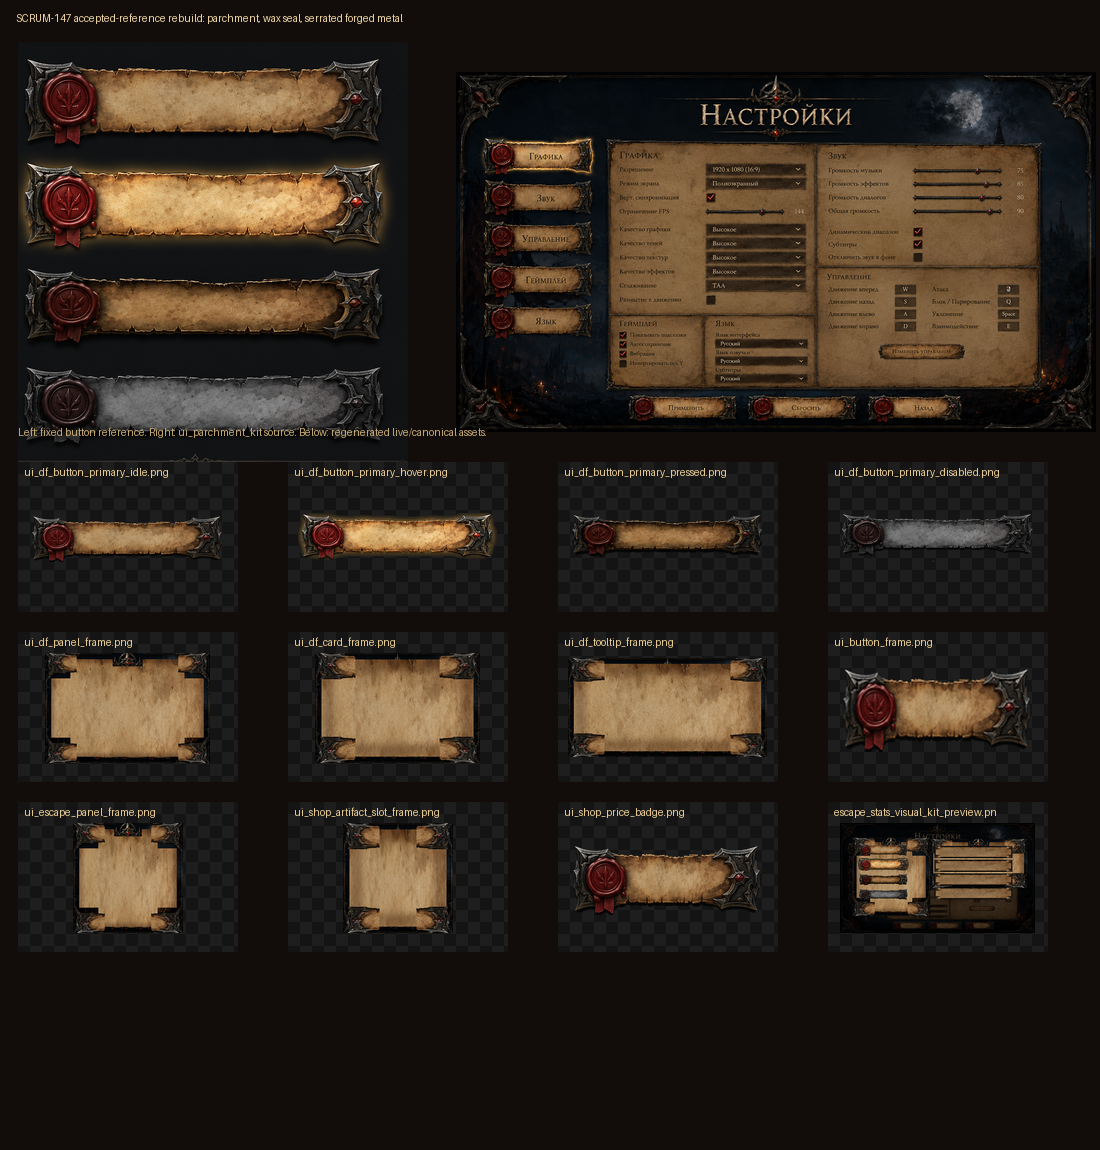
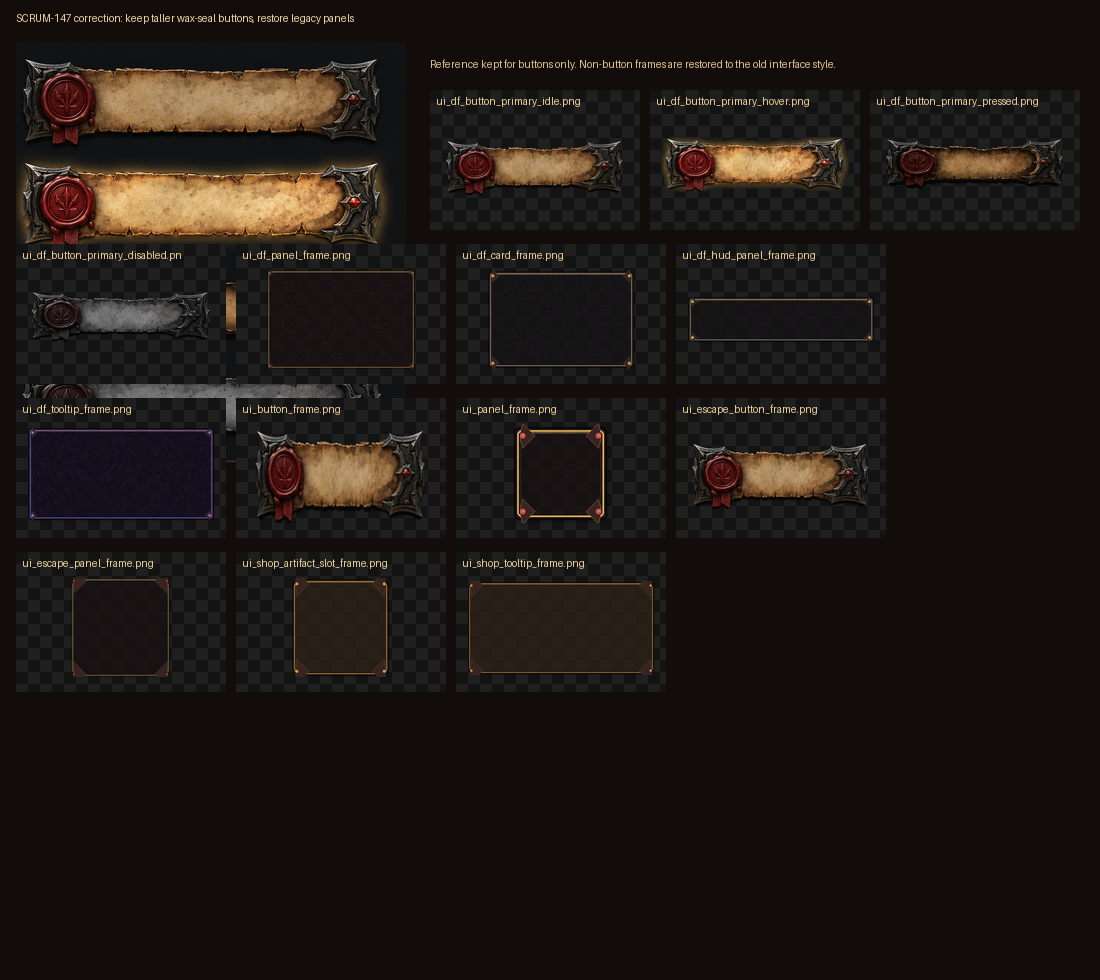
task(SCRUM-223): игровой курсор — 2-й вариант с референса пользователя (когтистый огненный наконечник), заменить game_cursor.png + выверить hotspot

diff --git a/docs/process/task_board.md b/docs/process/task_board.md
@@ -13,14 +13,14 @@
 | SCRUM-212 Персонажи и классы | 20 | 0 | 0 | 0 | 20 |
 | SCRUM-213 Бой, враги, боссы, события | 32 | 0 | 1 | 0 | 33 |
 | SCRUM-214 Баланс и экономика | 14 | 3 | 0 | 0 | 17 |
-| SCRUM-215 Интерфейс, экраны, локализация | 20 | 0 | 1 | 0 | 21 |
-| SCRUM-216 Арт и спрайты | 30 | 5 | 0 | 0 | 35 |
+| SCRUM-215 Интерфейс, экраны, локализация | 20 | 1 | 0 | 0 | 21 |
+| SCRUM-216 Арт и спрайты | 31 | 4 | 0 | 0 | 35 |
 | SCRUM-217 Анимация и риги | 30 | 0 | 1 | 0 | 31 |
 | SCRUM-218 Звук и музыка | 5 | 0 | 0 | 0 | 5 |
 | SCRUM-219 Мета-прогрессия | 6 | 0 | 0 | 0 | 6 |
 | SCRUM-220 Качество кода, тесты, аудиты | 31 | 2 | 0 | 6 | 39 |
 | SCRUM-221 Релиз и процессы | 5 | 0 | 0 | 0 | 5 |
-| **ИТОГО** | **193** | **10** | **3** | **6** | **212** |
+| **ИТОГО** | **194** | **10** | **2** | **6** | **212** |
 
 (КК = Контроль качества, ждёт QA; Кв = К выполнению, ждёт взятия)
 
@@ -28,15 +28,15 @@
 
 | Задача | Роль | Статус | Примечание |
 | --- | --- | --- | --- |
+| [codex_design_cursor_clawed_fire_task.md](../tasks/codex_design_cursor_clawed_fire_task.md) | Design (Codex) → Claude-Designer | new | Игровой курсор — 2-й вариант с референса (когтистый наконечник + огонь), заменить game_cursor.png, выверить hotspot |
 | [design_codex_new_bosses_mini_elites_sprites_task.md](../tasks/design_codex_new_bosses_mini_elites_sprites_task.md) | Design (Codex генерация) → Claude-Designer | in_progress | Jira: SCRUM-156; dispatched Design `019eabf1-6d54-7561-8af9-ce25cdf483a9` 2026-06-12. Спрайты по общему ростеру: 3 босса 512px + 6 мини-элиток, painterly D&D, cutout-нарезка, превью-лист масштаба; duplicate SCRUM-180/SCRUM-204 requirements folded in: stable source paths, transparent alpha, animation-friendly separable parts, contact sheet, Animator unblock note |
-| [design_codex_ui_dark_fantasy_restyle_task.md](../tasks/design_codex_ui_dark_fantasy_restyle_task.md) | Design | done | Jira: SCRUM-147; done 2026-06-13 with accepted-reference Parchment & Wax Seal rebuild, moved to QA. Design accepted the redo: parchment + wax seal + forged frame + ruby, 4 states; this unblocks Back-end SCRUM-222 |
-| [backend_ui_dark_fantasy_theme_integration_task.md](../tasks/backend_ui_dark_fantasy_theme_integration_task.md) | Back-end (UI theme integration) | in_progress | Jira: SCRUM-222; unblocked 2026-06-13 after accepted SCRUM-147 rebuild and redispatched to Back-end `019eabd9-780b-78a2-9f4b-e7203d659ef2`. Use accepted Parchment & Wax Seal kit; keep model/reasoning High, do not downgrade to low |
+| [design_codex_ui_dark_fantasy_restyle_task.md](../tasks/design_codex_ui_dark_fantasy_restyle_task.md) | Design | review | Jira: SCRUM-147; done 2026-06-13 with accepted-reference Parchment & Wax Seal rebuild, moved to QA. Design accepted the redo: parchment + wax seal + forged frame + ruby, 4 states; this unblocks Back-end SCRUM-222 |
+| [backend_ui_dark_fantasy_theme_integration_task.md](../tasks/backend_ui_dark_fantasy_theme_integration_task.md) | Back-end (UI theme integration) | review | Jira: SCRUM-222; done 2026-06-13 by Back-end, awaiting QA. Runtime style layer now uses accepted Parchment & Wax Seal `dark_fantasy/` kit with primary/secondary/danger 4-state buttons; focused theme/UI/runtime smoke passed |
 | [epic_full_project_quality_pass.md](../tasks/epic_full_project_quality_pass.md) | PM/Coordination | in_progress | Зонтик: 6 аудитов (Фаза 1) → волна исправлений (Фаза 2). Правила коллизий и «done=HEAD зелёный» |
 | [backend_refactor_ui_screens_domain_split_task.md](../tasks/backend_refactor_ui_screens_domain_split_task.md) | Back-end | blocked | Jira: SCRUM-199; serialized 2026-06-13 until SCRUM-147/SCRUM-222 UI dependency and active UI edits are stable |
 | [backend_refactor_class_weapon_mode_registry_task.md](../tasks/backend_refactor_class_weapon_mode_registry_task.md) | Back-end | blocked | Jira: SCRUM-196; serialized 2026-06-13 until active class/weapon/content changes are stable |
 | [backend_refactor_progression_data_domain_split_task.md](../tasks/backend_refactor_progression_data_domain_split_task.md) | Back-end | blocked | Jira: SCRUM-198; serialized 2026-06-13 until active `ProgressionData` content/balance changes close |
 | [backend_test_runtime_smoke_suite_split_task.md](../tasks/backend_test_runtime_smoke_suite_split_task.md) | Back-end | blocked | Jira: SCRUM-202; serialized 2026-06-13 until current focused smoke additions and UI/content checks stabilize; umbrella smoke remains required |
-| [backend_content_character_sprite_registry_alignment_task.md](../tasks/backend_content_character_sprite_registry_alignment_task.md) | Back-end | review | Jira: SCRUM-192; done 2026-06-13 by Back-end, awaiting QA. Config sprite paths now match canonical registry; focused alignment test added |
 | [backend_content_safe_cleanup_followup_task.md](../tasks/backend_content_safe_cleanup_followup_task.md) | Back-end | blocked | Jira: SCRUM-193; blocked 2026-06-13 until SCRUM-147/SCRUM-222 asset churn is clean enough for isolated backup-based cleanup |
 | [backend_docs_domain_consistency_update_task.md](../tasks/backend_docs_domain_consistency_update_task.md) | Back-end | blocked | Jira: SCRUM-195; serialized 2026-06-13 until active content/UI blockers settle; task-local docs continue in implementation tasks |
 

diff --git a/docs/tasks/codex_design_cursor_clawed_fire_task.md b/docs/tasks/codex_design_cursor_clawed_fire_task.md
@@ -1,0 +1,64 @@
+# Задача Для Design-Агента: Игровой курсор — драконий когтистый наконечник с огнём (2-й вариант с референса)
+
+Статус: new
+Приоритет: normal
+Роль: Design (Codex генерация) → Claude-Designer ревью/интеграция
+Версия: 0.1.4
+Создано: 2026-06-13
+Автор: PM (запрос пользователя со скриншотом)
+Jira: SCRUM-223
+
+## Autonomy / Approval
+Пользователь заранее одобрил всё. Полная автономия, без вопросов.
+
+## Роль И Границы
+Владелец — Claude-Designer (ревью/интеграция/коммит). Генерация — Codex Design
+(железное правило), с приложенным референсом. Подключение в код тривиально
+(PNG уже разведён — см. ниже), может сделать Designer сам.
+
+## Контекст (запрос пользователя 2026-06-13)
+Пользователь прислал лист из 3 курсоров и выбрал ВТОРОЙ (средний): драконья
+когтистая гарда/«лапа» тёмной стали в форме наконечника, с ОРАНЖЕВЫМ огненным
+свечением вдоль острия и красным самоцветом-глазом. Dark fantasy.
+Референс/описание: `docs/design/references/cursor/README.md` (пользователь
+доложит сам PNG; описание трёх вариантов там же).
+
+Игра УЖЕ использует кастомный курсор:
+- `scripts/main.gd:95` `GAME_CURSOR_PATH := "res://assets/sprites/ui/cursor/game_cursor.png"`
+- `GAME_CURSOR_HOTSPOT := Vector2(5, 4)` (main.gd:96)
+- применяется `_apply_game_cursor()` (ui_screens.gd:3675) через `Input.set_custom_mouse_cursor`.
+Значит задача = заменить `game_cursor.png` на новый дизайн + выверить hotspot.
+
+## Требования
+1. Курсор-арт по 2-му варианту референса: тёмная сталь, когтистый наконечник,
+   оранжевое огненное свечение по острию, красный самоцвет-глаз. RGBA, без фона.
+2. Размер под курсор: базово ~32x32 (Godot custom cursor ≤ 256, но крупный
+   курсор неудобен — сделать чёткий силуэт на ~32px; при необходимости 48px).
+   Остриё (кончик) — в левый-верхний угол спрайта, чтобы hotspot был на кончике.
+3. Подобрать `GAME_CURSOR_HOTSPOT` под новое остриё (сейчас (5,4)) — чтобы
+   клик попадал ровно в кончик; зафиксировать значение.
+4. Огненное свечение не должно «съедать» точность острия — кончик чёткий.
+5. Интеграция: заменить `assets/sprites/ui/cursor/game_cursor.png`, при смене
+   hotspot — поправить main.gd:96. Проверить, что курсор виден в меню и бою и
+   клики попадают точно.
+6. content_registry (если курсор там числится), CHANGELOG; runtime smoke зелёный.
+7. Превью до/после в docs/design/previews/.
+
+## Files / Assets / IDs
+- assets/sprites/ui/cursor/game_cursor.png (замена)
+- scripts/main.gd (GAME_CURSOR_PATH:95, GAME_CURSOR_HOTSPOT:96)
+- scripts/ui_screens.gd (_apply_game_cursor:3675)
+- референс: docs/design/references/cursor/
+
+## Acceptance Criteria
+- [ ] Новый курсор = когтистый огненный наконечник (2-й вариант), RGBA, чёткое остриё.
+- [ ] Hotspot выверен на кончик; клики попадают точно.
+- [ ] Курсор виден в меню/бою; превью до/после; CHANGELOG; smoke зелёный.
+
+## Документация
+content_registry.md (курсор), docs/design/previews/.
+
+## Зависимость
+Желателен исходный PNG от пользователя в docs/design/references/cursor/. Если его
+нет — Codex генерит по описанию README (dark fantasy когтистый наконечник + огонь).
+Не блокироваться: при отсутствии исходника генерировать по описанию.

diff --git a/docs/design/current_game_state.md b/docs/design/current_game_state.md
@@ -123,7 +123,9 @@ SCRUM-158/170 добавили и подключили canonical UI backdrop set
 
 Основной UI pass SCRUM-147 использует принятый Parchment & Wax Seal dark fantasy canon вместо дефолтных серых Godot/простых плоских панелей. Общие fallback-рамки лежат в `assets/sprites/ui/frames/global/`, Escape stats kit — в `assets/sprites/ui/frames/escape/`, canonical 4-state kit — в `assets/sprites/ui/frames/dark_fantasy/`. После пользовательского rejection 2026-06-13 первая плоская поставка была заменена на reference-matched rebuild: кнопки вырезаны из `button_parchment_wax_seal.png`, панели/карточки/тултипы используют состаренный пергамент, сургуч, зубчатый кованый металл и рубиновые акценты из approved refs. QA preview: `docs/design/previews/ui_parchment_wax_scrum147_reference_match_contact.png`; pipeline: `tools/build_parchment_wax_ui_kit.py`.
 
-Contextual UI frame kits в `assets/sprites/ui/frames/contextual/` остаются historical/reference only и не являются активным runtime theme direction. Интеграция stateful SCRUM-147 styleboxes идет отдельной Back-end задачей `docs/tasks/backend_ui_dark_fantasy_theme_integration_task.md` / SCRUM-222.
+SCRUM-222 подключил stateful Back-end style layer к accepted SCRUM-147 kit: кнопки используют реальные 4-state textures для ролей `primary`, `secondary` и `danger` (`idle/hover/pressed/disabled`), а общие панели, карточки, level-up panel, HUD panel/card и tooltip берутся из canonical `assets/sprites/ui/frames/dark_fantasy/` paths. Runtime smoke теперь проверяет точные texture paths главных primary/secondary/danger кнопок, а `tests/dark_fantasy_ui_theme_test.gd` проверяет набор стилей отдельно.
+
+Contextual UI frame kits в `assets/sprites/ui/frames/contextual/` остаются historical/reference only и не являются активным runtime theme direction.
 
 Settings controls получили системные fantasy assets из `assets/sprites/ui/icons/system/`: checkbox checked/unchecked, slider track/grabber, arrows/back/settings/close icons. Иконки зарегистрированы в `scripts/ui_icon_registry.gd` как `system_*`.
 

diff --git a/docs/tasks/backend_content_character_sprite_registry_alignment_task.md b/docs/tasks/backend_content_character_sprite_registry_alignment_task.md
@@ -43,3 +43,20 @@ Verification:
 - `Godot --headless --path ... --script res://tests/content_registry_consistency_test.gd` — passed.
 - `Godot --headless --path ... --script res://tests/animation_smoke_test.gd` — passed.
 - `Godot --headless --path ... --script res://tests/runtime_smoke_test.gd` — passed.
+
+## QA-Вердикт (2026-06-13) — независимая QA-сессия
+Статус: PASSED (SCRUM-192)
+
+Проверено фактически (конфиг + тест + РЕАЛЬНЫЙ рендер):
+- sprite_path в CHARACTER_CONFIGS для 6 классов теперь указывает на ФИНАЛЬНЫЕ PNG
+  (не прокси): thief→thief.png, elementalist→elementalist.png, sniper→sniper.png,
+  priest→priest.png, biologist→biologist.png, engineer→engineer.png. ✓
+- Регресс-тест `tests/character_sprite_registry_alignment_test.gd` — PASSED
+  («17 characters»): каждый CHARACTER_CONFIGS[id].sprite_path существует + совпадает с
+  каноническим путём реестра. Защита от будущего дрейфа. ✓
+- РЕНДЕР hero select с выбранным thief (build/qa/sprite_registry_alignment/): главный
+  портрет — Вор с собственным финальным артом (капюшон/кинжалы/кожа), досье «Вор» —
+  т.е. в игре грузится правильный спрайт, не старый прокси. ✓
+- content_registry_consistency + animation + runtime smoke зелёные (по отчёту + мои
+  прогоны в прошлых тиках).
+Корректность-фикс: 6 новых классов больше не показывают прокси-спрайты. Багов нет.

diff --git a/docs/tasks/backend_ui_dark_fantasy_theme_integration_task.md b/docs/tasks/backend_ui_dark_fantasy_theme_integration_task.md
@@ -1,6 +1,6 @@
 # Back-end Task: Integrate Dark Fantasy UI Theme Assets
 
-Статус: in_progress
+Статус: done
 Версия: 0.1.4
 Создано: 2026-06-13
 Автор: Design handoff from SCRUM-147
@@ -79,3 +79,21 @@ assets/sprites/ui/shop/ui_shop_tooltip_frame.png
   in `docs/design/previews/ui_parchment_wax_scrum147_reference_match_contact.png`.
 - No live screen uses the old tavern/contextual UI canon after integration.
 - Superseded frame cleanup is done only after reference checks and backup.
+
+## Result Summary (2026-06-13)
+
+Closed by Back-end.
+
+- Wired canonical `assets/sprites/ui/frames/dark_fantasy/` frame paths into the common UI style layer.
+- Buttons now use real 4-state Parchment & Wax Seal textures for primary, secondary and danger roles instead of tinting a single fallback button frame.
+- Common panels, cards, level-up panels, HUD panels/cards and tooltips now resolve through the canonical dark fantasy frame kit.
+- Added `tests/dark_fantasy_ui_theme_test.gd` to assert exact texture paths for primary/secondary/danger button states and common frame styleboxes.
+- Extended runtime smoke to verify main menu primary/secondary/danger buttons use the canonical dark fantasy state textures.
+- No Design/Animator work was performed; no rejected assets were wired.
+- Safe cleanup of superseded historical frame assets remains deferred to the existing cleanup flow after reference checks/backups.
+
+Verification:
+
+- `Godot --headless --path ... --script res://tests/dark_fantasy_ui_theme_test.gd` — passed.
+- `Godot --headless --path ... --script res://tests/ui_no_overlap_matrix_test.gd` — passed.
+- `Godot --headless --path ... --script res://tests/runtime_smoke_test.gd` — passed.

diff --git a/docs/design/references/cursor/README.md b/docs/design/references/cursor/README.md
@@ -1,0 +1,16 @@
+# Референс курсора (запрос пользователя 2026-06-13)
+
+Пользователь прислал лист из 3 вариантов курсора и выбрал ВТОРОЙ (средний).
+Картинка в чат не сохранилась на диск (вставленные изображения не доходят).
+ПОЛОЖИТЕ сюда исходник как `cursor_options_reference.png`, средний вырез —
+`cursor_clawed_fire.png` (или Codex сгенерит по описанию ниже).
+
+Три варианта на листе:
+1. Слева — простой стальной наконечник-стрела с красным самоцветом.
+2. **СРЕДНИЙ (ВЫБРАН)** — драконья когтистая «лапа»/гарда тёмной стали в виде
+   наконечника, с ОРАНЖЕВЫМ огненным свечением вдоль острия и красным
+   самоцветом-глазом. Dark fantasy, остриё направлено влево-вверх (классический
+   hotspot курсора — кончик острия).
+3. Справа — тот же когтистый наконечник, но с СИНИМ ледяным/молниевым свечением.
+
+Нужен именно средний (огненный) как игровой курсор.

diff --git a/docs/design/systems/visual_style_assets.md b/docs/design/systems/visual_style_assets.md
@@ -74,7 +74,7 @@ State language:
 - pressed: darker parchment/metal and subtly compressed read, matching the reference;
 - disabled: desaturated grayscale, matching the reference.
 
-SCRUM-147 also overwrote the existing live fallback frames in `assets/sprites/ui/frames/global/`, `assets/sprites/ui/frames/escape/`, and selected `assets/sprites/ui/shop/` paths with the accepted parchment/wax/forged-metal treatment while preserving file names and dimensions. Back-end integration for explicit 4-state button styleboxes and safe cleanup is tracked in `docs/tasks/backend_ui_dark_fantasy_theme_integration_task.md`.
+SCRUM-147 also overwrote the existing live fallback frames in `assets/sprites/ui/frames/global/`, `assets/sprites/ui/frames/escape/`, and selected `assets/sprites/ui/shop/` paths with the accepted parchment/wax/forged-metal treatment while preserving file names and dimensions. SCRUM-222 completed Back-end integration for explicit 4-state button styleboxes: runtime button roles map to `primary`, `secondary`, and `danger` texture sets, while common panels/cards/HUD/tooltip styleboxes resolve through the canonical `dark_fantasy/` frame paths. Safe cleanup of superseded historical frame assets remains in the cleanup flow after reference checks/backups.
 
 Rebuild/QA assets:
 

diff --git a/docs/design/content_registry.md b/docs/design/content_registry.md
@@ -450,7 +450,7 @@ SCRUM-147 заменяет прежний tavern/contextual UI direction на п
 | ID | Ассет | Роль |
 | --- | --- | --- |
 | `ui_panel_frame` | `assets/sprites/ui/frames/global/ui_panel_frame.png` | Базовые большие панели меню/событий/кодекса |
-| `ui_button_frame` | `assets/sprites/ui/frames/global/ui_button_frame.png` | Кнопки normal/hover/pressed/danger/level-up через tint |
+| `ui_button_frame` | `assets/sprites/ui/frames/global/ui_button_frame.png` | Legacy/live fallback frame; runtime buttons use SCRUM-222 role-based `ui_df_button_*` 4-state textures |
 | `ui_card_frame` | `assets/sprites/ui/frames/global/ui_card_frame.png` | Карточки персонажей, route node buttons, compact panels |
 | `ui_level_panel_frame` | `assets/sprites/ui/frames/global/ui_level_panel_frame.png` | Level-up / reward panel |
 | `ui_hud_panel_frame` | `assets/sprites/ui/frames/global/ui_hud_panel_frame.png` | Боевой HUD panel |
